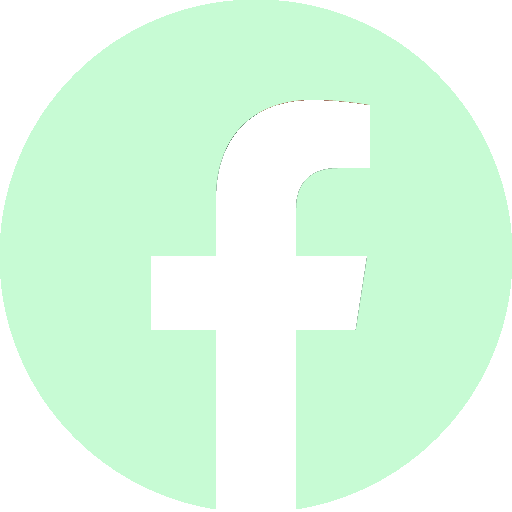
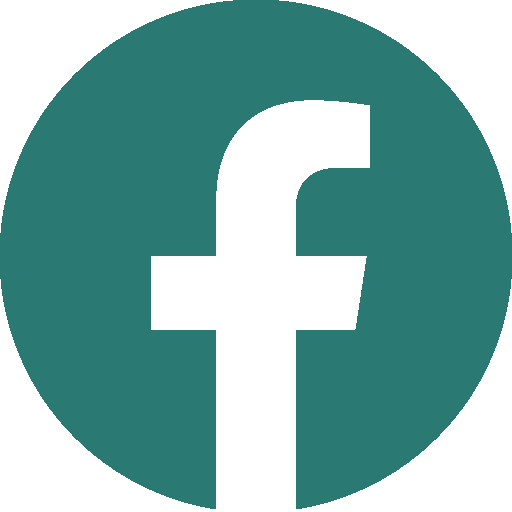
Add files via upload

diff --git a/style.css b/style.css
@@ -1,7 +1,7 @@
 /* Option, Parametres et Reset */
 
 :root{
-    --light-green: #c7fbd4;
+    --light-green: #2b7971;
     --light-pink: #fdd8f1;
     --black: #270c25;
     --white: #fcf5f5;
@@ -74,6 +74,7 @@ body{
 
 .scroll-block{
     overflow-y: hidden;
+
 }
 
 /* Header */
@@ -85,7 +86,7 @@ header{
     padding-top: 100px;
     background-color: var(--light-green);
     height: 400px;
-    color: var(--black);
+    color: var(--white);
 }
 
 header div.left{
@@ -131,7 +132,7 @@ header div.left .text{
 }
 
 header div.left a.scroll {
-    color: var(--black);
+    color: var(--white);
     margin-top: 30px;
     line-height: 20px;
     text-decoration: none;
@@ -252,10 +253,49 @@ section.diapo div.elements div#slide03{
 
 /* 3 : Tarifs */
 
-/* 4 : Contact */
+/* /* 4 : Contact */
 
+section#contact div.contact-container{
+    display: grid; 
+    grid-template-columns: 1fr 1fr; 
+    grid-template-rows: 1fr 1fr; 
+    gap: 70px 150px; 
+    grid-template-areas: 
+        ". ."
+        ". .";
+}
+
+section#contact div.contact-container div.contact-box{
+    display: flex;
+    align-items: center;
+    background-color: var(--light-pink);
+    height: 70px;
+    width: 500px;
+    border-radius: 20px;
+}
+
+section#contact div.contact-container div.contact-box .logo{
+    background-repeat: no-repeat;
+    background-position: center;
+    background-size: cover;
+    width: 50px;
+    height: 50px;
+    margin-right: 50px;
+    margin-left: 10px;
+}
 
 /* Media Query */
+
+@media (max-width: 1430px) {
+    /* Section */
+    
+    /* 4 : Contact */
+
+    section#contact div.contact-container{
+        display: flex;
+        flex-direction: column;
+    }
+}
 
 @media screen and (max-width: 1200px){
 
@@ -364,10 +404,14 @@ section.diapo div.elements div#slide03{
         height: 7px;
         bottom: -5px;
     }
+
+    section .section-content{
+        margin-top: 80px;
+        margin-left: 50px;
+    }
     
     section p.section-text{
         margin-top: 70px;
-        margin-left: 50px;
         font-size: 15px;
     }
 
@@ -382,11 +426,26 @@ section.diapo div.elements div#slide03{
         height: 250px;
     }
 
-    /* 2 : Histoire */
+    /* 4 : Contact */
 
+    section#contact div.contact-container div.contact-box{
+        width: 400px;
+    }
 }
 
-@media screen and (max-width: 450px){
+@media screen and (max-width : 600px) {
+
+    /* Section */
+
+    /* 4 : Contact */
+
+    section#contact div.contact-container div.contact-box{
+        width: 300px;
+        font-size: small;
+    }
+}
+
+@media screen and (max-width: 500px){
 
     /* Header */
 
@@ -433,10 +492,19 @@ section.diapo div.elements div#slide03{
         height: 7px;
         bottom: -5px;
     }
+
+    section .section-content{
+        margin-left: 20px;
+    }
     
     section p.section-text{
-        margin-top: 50px;
-        margin-left: 20px;
         font-size: 15px;
     }
+
+    /* 4 : Contact */
+
+    section#contact div.contact-container div.contact-box .logo{
+        margin-right: 10px;
+    }
+
 }

diff --git a/index.html b/index.html
@@ -135,7 +135,7 @@
 
                     <div class="contact-box">
 
-                        <a href=""><div class="logo" id="contact-logo1"></div></a>
+                        <a href=""><div class="logo" style="background-image: url('img/contact/facebook.png');"></div></a>
 
                         <p class="name">Au delà des mots Ingrid Coupet EI Co-Créatrice de bonheurs</p>
 
@@ -143,7 +143,7 @@
 
                     <div class="contact-box">
 
-                        <a href=""><div class="logo" id="contact-logo1"></div></a>
+                        <a href=""><div class="logo" style="background-image: url('img/contact/gmail.png');"></div></a>
 
                         <p class="name">ic.audeladesmots@gmail.com</p>
 
@@ -151,9 +151,17 @@
 
                     <div class="contact-box">
 
-                        <a href=""><div class="logo" id="contact-logo1"></div></a>
+                        <a href=""><div class="logo" style="background-image: url('img/contact/telephone.png');"></div></a>
 
-                        <p class="name">Au delà des mots Ingrid Coupet EI Co-Créatrice de bonheurs</p>
+                        <p class="name">07 55 62 25 77</p>
+
+                    </div>
+
+                    <div class="contact-box">
+
+                        <a href=""><div class="logo" style="background-image: url('img/contact/instagram.png');"></div></a>
+
+                        <p class="name">ingrid.audeladesmots</p>
 
                     </div>
 
